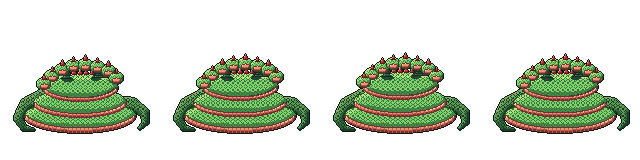
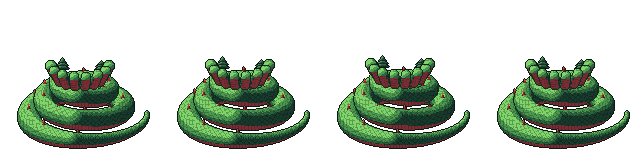
배포 2026-10-07 15:48

diff --git a/js/bosses.js b/js/bosses.js
@@ -3,15 +3,51 @@
 // 각 패턴은 제너레이터. `yield 초` 로 대기, `yield 0` 은 다음 프레임.
 // 체력 50% 이하에서 2페이즈(격노) — 패턴이 빨라지고 새 패턴이 추가된다.
 
+// 보스 스프라이트 (sprite-artist 제작, tools/sprites/<보스>.py). 배율 1.9, 발끝 앵커.
+const BSPR = {
+  kagutsuchi: enemySheet('kagutsuchi', 128, 64, 112, 1.9, { idle: [6, 8], cast: [5, 10], charge: [4, 12] }, 'bosses'),
+  raijin: enemySheet('raijin', 128, 64, 112, 1.9, { idle: [6, 8], drum: [5, 12], blink: [4, 20] }, 'bosses'),
+  tsukuyomi: enemySheet('tsukuyomi', 128, 64, 112, 1.9, { idle: [6, 6], cast: [5, 10] }, 'bosses'),
+  orochi: enemySheet('orochi_body', 160, 80, 124, 1.9, { idle: [4, 4] }, 'bosses'),
+  orochiHead: enemySheet('orochi_head', 48, 11, 24, 1.5, { idle: [4, 6], bite: [4, 12] }, 'bosses'), // 앵커 = 목 접합점
+};
+// 오로치 몸통 프레임 안의 목 밑동 8개 (화면 왼쪽 → 오른쪽). 숨쉬기 프레임마다 위로 0/1/2/1px
+const OROCHI_NECKS = [[51, 66], [54, 71], [62, 75], [74, 77], [86, 77], [98, 75], [106, 71], [109, 66]];
+const OROCHI_BREATH = [0, 1, 2, 1];
+
 class Boss extends Enemy {
   constructor(x, y, o) {
     super(x, y, Object.assign({ boss: true }, o));
     this.isBoss = true; this.god = o.god; this.co = null; this.wait = 0; this.rest = 1.2;
     this.phase = 1; this.patterns = []; this.patterns2 = []; this.lastPat = null; this.sdt = 0;
+    this.spr = BSPR[o.god]; this.textH = o.textH || 180;
+    this.act = null; this.hold = null; this.faceLock = null;
+  }
+  // 한 번 재생하는 동작 (rev: 거꾸로). hold는 풀 때까지 반복하는 자세.
+  play(name, rev = false) { this.act = { name, t: 0, rev }; }
+  animFrame() {
+    if (this.hold) return [this.hold, this.loop(this.hold, this.t)];
+    if (this.act) {
+      const a = this.spr.anims[this.act.name], f = Math.floor(this.act.t * a.fps);
+      if (f < a.n) return [this.act.name, this.act.rev ? a.n - 1 - f : f];
+      this.act = null;
+    }
+    return ['idle', this.loop('idle', this.t)];
+  }
+  // 스프라이트가 있으면 그리고 true, 없으면 false (도형으로 대체)
+  drawBody() {
+    if (!this.spriteReady()) return false;
+    this.drawShadowFeet(this.r * 1.3);
+    const [anim, f] = this.animFrame();
+    this.drawSpr(anim, f);
+    this.drawOverlay();
+    return true;
   }
   update(dt) {
     this.sdt = dt * this.timeScale();
     this.baseUpdate(dt);
+    if (this.act) this.act.t += this.sdt;
+    this.face = this.faceLock ?? angTo(this, G.player);
     if (G.bossIntro > 0) return;
     if (this.phase === 1 && this.hp <= this.maxHp * 0.5) {
       this.phase = 2;
@@ -66,6 +102,7 @@ class Kagutsuchi extends Boss {
     const waves = this.phase === 2 ? 4 : 3;
     for (let k = 0; k < waves; k++) {
       const n = 14 + this.phase * 2, off = rand(0, TAU);
+      this.play('cast');
       for (let i = 0; i < n; i++) this.bullet(off + i * TAU / n, 200, { r: 9, dmg: 12, color: '#ff7a2a' });
       Sfx.play('shoot'); yield 0.5;
     }
@@ -75,6 +112,7 @@ class Kagutsuchi extends Boss {
     const times = this.phase === 2 ? 3 : 2;
     for (let k = 0; k < times; k++) {
       const a = angTo(this, G.player);
+      this.hold = 'charge'; this.faceLock = a; // 몸을 숙인 돌진 자세로 예고
       addHazard({ kind: 'line', x: this.x, y: this.y, ang: a, len: 650, width: this.r * 2, delay: 0.65, active: 0, owner: this, cancelOnDeath: true, color: '#ff6a2a' });
       yield 0.65;
       let t = 0, drop = 0, hit = false;
@@ -88,12 +126,13 @@ class Kagutsuchi extends Boss {
         if (!hit && dist(this, G.player) < this.r + G.player.r && hurtPlayer(20)) hit = true;
         yield 0;
       }
-      G.shake = 8; yield 0.45;
+      G.shake = 8; this.hold = null; this.faceLock = null; yield 0.45;
     }
     yield 0.4;
   }
   *pPillars() {
     const n = this.phase === 2 ? 8 : 5;
+    this.play('cast');
     for (let i = 0; i < n; i++) {
       const P = G.player;
       addHazard({ kind: 'circle', x: P.x + rand(-20, 20), y: P.y + rand(-20, 20), r: 66, delay: 0.85, dmg: 18, fx: 'fire', color: '#ff7a2a' });
@@ -103,6 +142,7 @@ class Kagutsuchi extends Boss {
   }
   *pSpiral() {
     let t = 0, acc = 0, a = rand(0, TAU);
+    this.play('cast');
     while (t < 2.6) {
       t += this.sdt; acc += this.sdt;
       if (acc > 0.09) { acc = 0; for (let k = 0; k < 3; k++) this.bullet(a + k * TAU / 3, 230, { r: 8, dmg: 11, color: '#ffb04a' }); a += 0.27; }
@@ -112,7 +152,7 @@ class Kagutsuchi extends Boss {
   }
   draw() {
     if (Math.random() < 0.5) addFx({ type: 'p', x: this.x + rand(-25, 25), y: this.y + rand(-25, 25), h: rand(10, 50), vh: rand(80, 160), vx: 0, vy: 0, color: pick(['#ff6a2a', '#ffb04a', '#ff3a1a']), size: rand(3, 7), life: 0.6 });
-    this.drawAura('#ff8a3a', '火', '#3a0d06', '#ff5a1a');
+    this.drawBody() || this.drawAura('#ff8a3a', '火', '#3a0d06', '#ff5a1a');
   }
 }
 
@@ -122,11 +162,12 @@ class Raijin extends Boss {
     super(x, y, { r: 42, hp: 920, name: '라이진', god: 'raijin', souls: 40, blood: '#a98bff' });
     this.patterns = [this.pStrikes, this.pDrums, this.pBlink];
     this.patterns2 = [this.pBolts];
-    this.alpha = 1; this.drumHit = 0;
+    this.drumHit = 0;
   }
   idle(dt) { this.moveToward(ISO.WW / 2 + Math.cos(this.t * 0.5) * 220, ISO.WD / 2 + Math.sin(this.t * 0.7) * 220, 95, dt); }
   *pStrikes() {
     const n = this.phase === 2 ? 18 : 12;
+    this.play('drum');
     for (let i = 0; i < n; i++) {
       const onP = i % 4 === 0, P = G.player;
       const x = onP ? P.x : rand(ARENA.x1 + 40, ARENA.x2 - 40), y = onP ? P.y : rand(ARENA.y1 + 40, ARENA.y2 - 40);
@@ -138,6 +179,7 @@ class Raijin extends Boss {
   *pDrums() {
     const n = this.phase === 2 ? 5 : 3;
     for (let i = 0; i < n; i++) {
+      this.play('drum'); yield 0.08; // 북채를 내리치는 프레임에 맞춰 충격파
       this.drumHit = 0.2;
       addHazard({ kind: 'ring', x: this.x, y: this.y, rad: this.r, speed: 330, width: 30, maxR: 1500, dmg: 16, color: '#d9c6ff' });
       Sfx.play('boom'); G.shake = 6;
@@ -148,29 +190,33 @@ class Raijin extends Boss {
   *pBlink() {
     const n = this.phase === 2 ? 3 : 2;
     for (let i = 0; i < n; i++) {
+      this.play('blink'); Sfx.play('thunder');           // 번개로 변해 사라짐
+      boltFx(this.x, this.y, this.x, this.y, '#d9c8ff', 4, 460, 0);
+      yield 0.2;
       burstParticles(this.x, this.y, 20, '#cdb8ff', 260, 4, 0.4);
-      boltFx(this.x, this.y, this.x, this.y, '#d9c8ff', 4, 460, 0); Sfx.play('thunder');
       const P = G.player, a = rand(0, TAU);
       this.x = clamp(P.x + Math.cos(a) * 140, ARENA.x1 + 60, ARENA.x2 - 60);
       this.y = clamp(P.y + Math.sin(a) * 140, ARENA.y1 + 60, ARENA.y2 - 60);
-      this.alpha = 0;
+      this.play('blink', true);                            // 번개 기둥에서 다시 나타남
+      boltFx(this.x, this.y, this.x, this.y, '#d9c8ff', 4, 460, 0);
       yield 0.2;
-      this.alpha = 1;
       addHazard({ kind: 'circle', x: this.x, y: this.y, r: 125, delay: 0.55, dmg: 22, fx: 'thunder', owner: this, cancelOnDeath: true, color: '#b98bff' });
-      yield 0.95;
+      yield 0.75;
     }
     yield 0.3;
   }
   *pBolts() {
     for (let k = 0; k < 4; k++) {
       const a = angTo(this, G.player);
+      this.play('drum');
       for (let i = -2; i <= 2; i++) this.bullet(a + i * 0.2, 430, { r: 7, dmg: 12, color: '#e0d2ff' });
       Sfx.play('shoot'); yield 0.32;
     }
     yield 0.5;
   }
   draw() {
-    if (this.alpha <= 0) return;
+    if (Math.random() < 0.03) boltFx(this.x, this.y, this.x + rand(-80, 80), this.y + rand(-80, 80), '#cdb8ff', 2, 70, 0);
+    if (this.drawBody()) return; // 천둥북 고리는 스프라이트에 들어 있다
     this.drumHit = Math.max(0, this.drumHit - 1 / 60);
     // 등 뒤의 천둥북 고리
     for (let i = 0; i < 8; i++) {
@@ -178,7 +224,6 @@ class Raijin extends Boss {
       const dx = this.x + Math.cos(a) * rr, dy = this.y + Math.sin(a) * rr;
       circle(dx, dy, 10, '#5a2a1a'); circle(dx, dy, 7, '#e8d6b0'); text('巴', dx, dy + 1, 9, '#5a2a1a');
     }
-    if (Math.random() < 0.08) boltFx(this.x, this.y, this.x + rand(-80, 80), this.y + rand(-80, 80), '#cdb8ff', 2, 40, 0);
     this.drawAura('#cdb8ff', '雷', '#1a1030', '#7a5aff');
   }
 }
@@ -195,6 +240,7 @@ class Tsukuyomi extends Boss {
     const waves = this.phase === 2 ? 3 : 2;
     for (let w = 0; w < waves; w++) {
       const a = angTo(this, G.player);
+      this.play('cast');
       for (let i = -3; i <= 3; i++) this.bullet(a + i * 0.2 + (w % 2) * 0.1, 215, { r: 14, dmg: 14, color: '#dfe9ff', shape: 'crescent' });
       Sfx.play('moon'); yield 0.75;
     }
@@ -203,6 +249,7 @@ class Tsukuyomi extends Boss {
   *pSpiral() {
     let t = 0, acc = 0, ang = rand(0, TAU);
     const arms = this.phase === 2 ? 5 : 4;
+    this.play('cast');
     while (t < 2.8) {
       t += this.sdt; acc += this.sdt;
       if (acc >= 0.11) { acc = 0; for (let k = 0; k < arms; k++) this.bullet(ang + k * TAU / arms, 175, { r: 7, dmg: 11, color: '#bcd0ff' }); ang += 0.22; }
@@ -212,12 +259,14 @@ class Tsukuyomi extends Boss {
   }
   *pBeams() {
     const n = this.phase === 2 ? 4 : 3, base = angTo(this, G.player) + Math.PI / n, dir = pick([-1, 1]);
+    this.play('cast');
     for (let k = 0; k < n; k++) addHazard({ kind: 'beam', owner: this, follow: true, x: this.x, y: this.y, ang: base + k * TAU / n, angVel: 0.5 * dir, len: 1500, width: 30, delay: 1.1, active: 2.6, dmg: 20, color: '#e6eeff' });
     Sfx.play('moon');
     yield 3.8;
   }
   *pMoonfall() {
     const P = G.player;
+    this.play('cast');
     addHazard({ kind: 'circle', x: P.x, y: P.y, r: 95, delay: 1.1, dmg: 24, fx: 'moon', color: '#dfe9ff' });
     for (let i = 0; i < 6; i++) {
       const a = i * TAU / 6;
@@ -226,6 +275,7 @@ class Tsukuyomi extends Boss {
     yield 2.0;
   }
   draw() {
+    if (this.drawBody()) return; // 초승달 광배는 스프라이트에 들어 있다
     // 등 뒤의 초승달 광배
     ctx.save(); ctx.translate(this.x, this.y); ctx.rotate(Math.sin(G.time) * 0.2 - 0.6);
     ctx.shadowColor = '#e6eeff'; ctx.shadowBlur = 30; ctx.fillStyle = '#e6eeff';
@@ -238,22 +288,22 @@ class Tsukuyomi extends Boss {
 // ── 최종. 야마타노오로치 ──
 class Orochi extends Boss {
   constructor(x, y) {
-    super(x, y, { r: 52, hp: 1700, name: '야마타노오로치', god: 'orochi', souls: 80, blood: '#5fbf4a' });
+    super(x, y, { r: 52, hp: 1700, name: '야마타노오로치', god: 'orochi', souls: 80, blood: '#5fbf4a', textH: 150 });
     this.patterns = [this.pBite, this.pSpray, this.pPools];
     this.patterns2 = [this.pEightfold, this.pSummon];
-    this.heads = []; this.lunge = new Array(8).fill(0);
+    this.heads = []; this.lunge = new Array(8).fill(0); this.warn = new Array(8).fill(0);
     this.updateHeads();
   }
   updateHeads() {
     for (let i = 0; i < 8; i++) {
       const base = Math.PI / 4 - Math.PI * 0.6 + i * (Math.PI * 1.2) / 7; // 화면 아래쪽 부채꼴로 펼쳐진 여덟 머리
-      const a = base + Math.sin(this.t * 1.6 + i) * 0.12, len = 110 + Math.sin(this.t * 2 + i * 1.7) * 12 + this.lunge[i] * 70;
+      const a = base + Math.sin(this.t * 1.6 + i) * 0.12, len = 135 + Math.sin(this.t * 2 + i * 1.7) * 12 + this.lunge[i] * 70;
       this.heads[i] = { x: this.x + Math.cos(a) * len, y: this.y + Math.sin(a) * len, a };
     }
   }
   update(dt) {
     super.update(dt);
-    for (let i = 0; i < 8; i++) this.lunge[i] = Math.max(0, this.lunge[i] - dt * 2.5);
+    for (let i = 0; i < 8; i++) { this.lunge[i] = Math.max(0, this.lunge[i] - dt * 2.5); this.warn[i] = Math.max(0, this.warn[i] - this.sdt); }
     this.updateHeads();
   }
   idle(dt) { const s = Math.sin(this.t * 0.4) * 130; this.moveToward(ISO.WW * 0.27 + s, ISO.WD * 0.27 - s, 50, dt); }
@@ -261,6 +311,7 @@ class Orochi extends Boss {
     const n = this.phase === 2 ? 5 : 3;
     for (const i of shuffle([0, 1, 2, 3, 4, 5, 6, 7]).slice(0, n)) {
       const h = this.heads[i], a = angTo(h, G.player);
+      this.warn[i] = 0.75; // 예고 동안 입을 벌린다
       addHazard({ kind: 'line', x: h.x, y: h.y, ang: a, len: 780, width: 56, delay: 0.75, active: 0.18, dmg: 22, owner: this, cancelOnDeath: true, fx: 'bite', color: '#8aff6a' });
       setTimer(0.75, () => { this.lunge[i] = 1; });
       yield 0.3;
@@ -289,6 +340,7 @@ class Orochi extends Boss {
   }
   *pEightfold() {
     for (const h of this.heads) addHazard({ kind: 'line', x: h.x, y: h.y, ang: h.a, len: 950, width: 44, delay: 1.0, active: 0.25, dmg: 25, owner: this, cancelOnDeath: true, fx: 'bite', color: '#b6ff8a' });
+    this.warn.fill(1.0);
     setTimer(1.0, () => this.lunge.fill(1));
     yield 1.6;
   }
@@ -299,7 +351,38 @@ class Orochi extends Boss {
     }
     yield 1.2;
   }
+  flipX() { return false; } // 몸통은 목 밑동 좌표가 고정이라 뒤집지 않는다
   draw() {
+    if (!this.spriteReady()) return this.drawShape();
+    const { x, y } = this, S = this.spr.scale, bf = this.loop('idle', this.t), lift = OROCHI_BREATH[bf];
+    const HS = BSPR.orochiHead, hs = HS.scale;
+    this.drawShadowFeet(this.r * 2.4);
+    this.drawSpr('idle', bf);
+    // 몸통 뒤쪽(화면 위)으로 뻗은 머리부터 그려 겹침을 맞춘다
+    const order = [...this.heads.keys()].sort((a, b) => (this.heads[a].x + this.heads[a].y) - (this.heads[b].x + this.heads[b].y));
+    for (const i of order) {
+      const hw = this.heads[i], h = isoLocal(this, hw.x, hw.y, 30);
+      const nb = OROCHI_NECKS[7 - i]; // 머리 0번이 화면 오른쪽 → 오른쪽 끝 목 밑동
+      const bx = x + (nb[0] - 80) * S, by = y + (nb[1] - lift - 124) * S;
+      const cx = (bx + h.x) / 2 + Math.sin(this.t * 3 + i) * 14, cy = Math.min(by, h.y) - 40;
+      ctx.lineCap = 'round';
+      for (const [w, c] of [[25, '#183a2c'], [20, '#4c9850'], [6, '#7fd46a']]) {
+        ctx.strokeStyle = c; ctx.lineWidth = w;
+        ctx.beginPath(); ctx.moveTo(bx, by); ctx.quadraticCurveTo(cx, cy, h.x, h.y); ctx.stroke();
+      }
+      const L = this.lunge[i], wn = this.warn[i];
+      let anim = 'idle', f = Math.floor(this.t * 6 + i) % 4;
+      if (L > 0.5) { anim = 'bite'; f = 2; } else if (L > 0) { anim = 'bite'; f = 3; } else if (wn > 0) { anim = 'bite'; f = wn > 0.35 ? 0 : 1; }
+      const img = HS.anims[anim].img;
+      ctx.save(); ctx.translate(h.x, h.y); ctx.rotate(isoAng(hw.a)); ctx.imageSmoothingEnabled = false;
+      const blit = () => ctx.drawImage(img, f * 48, 0, 48, 48, -HS.ax * hs, -HS.ay * hs, 48 * hs, 48 * hs);
+      blit();
+      if (this.flash > 0) { ctx.globalCompositeOperation = 'lighter'; ctx.globalAlpha *= 0.8; blit(); }
+      ctx.restore();
+    }
+    this.drawOverlay();
+  }
+  drawShape() {
     const { x, y, r } = this;
     // 목과 머리
     // 몸통 뒤쪽(화면 위)으로 뻗은 머리부터 그려 겹침을 맞춘다

diff --git a/js/enemies.js b/js/enemies.js
@@ -3,9 +3,9 @@
 
 // 스프라이트시트 (sprite-artist 제작, tools/sprites/*.py). 가로 스트립, 오른쪽을 바라봄.
 // [프레임 수, fps]. 앵커(ax, ay)는 프레임 안의 발끝(오니비는 불꽃 머리 중심) 좌표.
-function enemySheet(name, F, ax, ay, scale, anims) {
+function enemySheet(name, F, ax, ay, scale, anims, dir = 'enemies') {
   const o = { F, ax, ay, scale, anims: {} };
-  for (const [k, [n, fps]] of Object.entries(anims)) o.anims[k] = { img: loadImg(`assets/enemies/${name}_${k}.png`), n, fps };
+  for (const [k, [n, fps]] of Object.entries(anims)) o.anims[k] = { img: loadImg(`assets/${dir}/${name}_${k}.png`), n, fps };
   return o;
 }
 const ESPR = {
